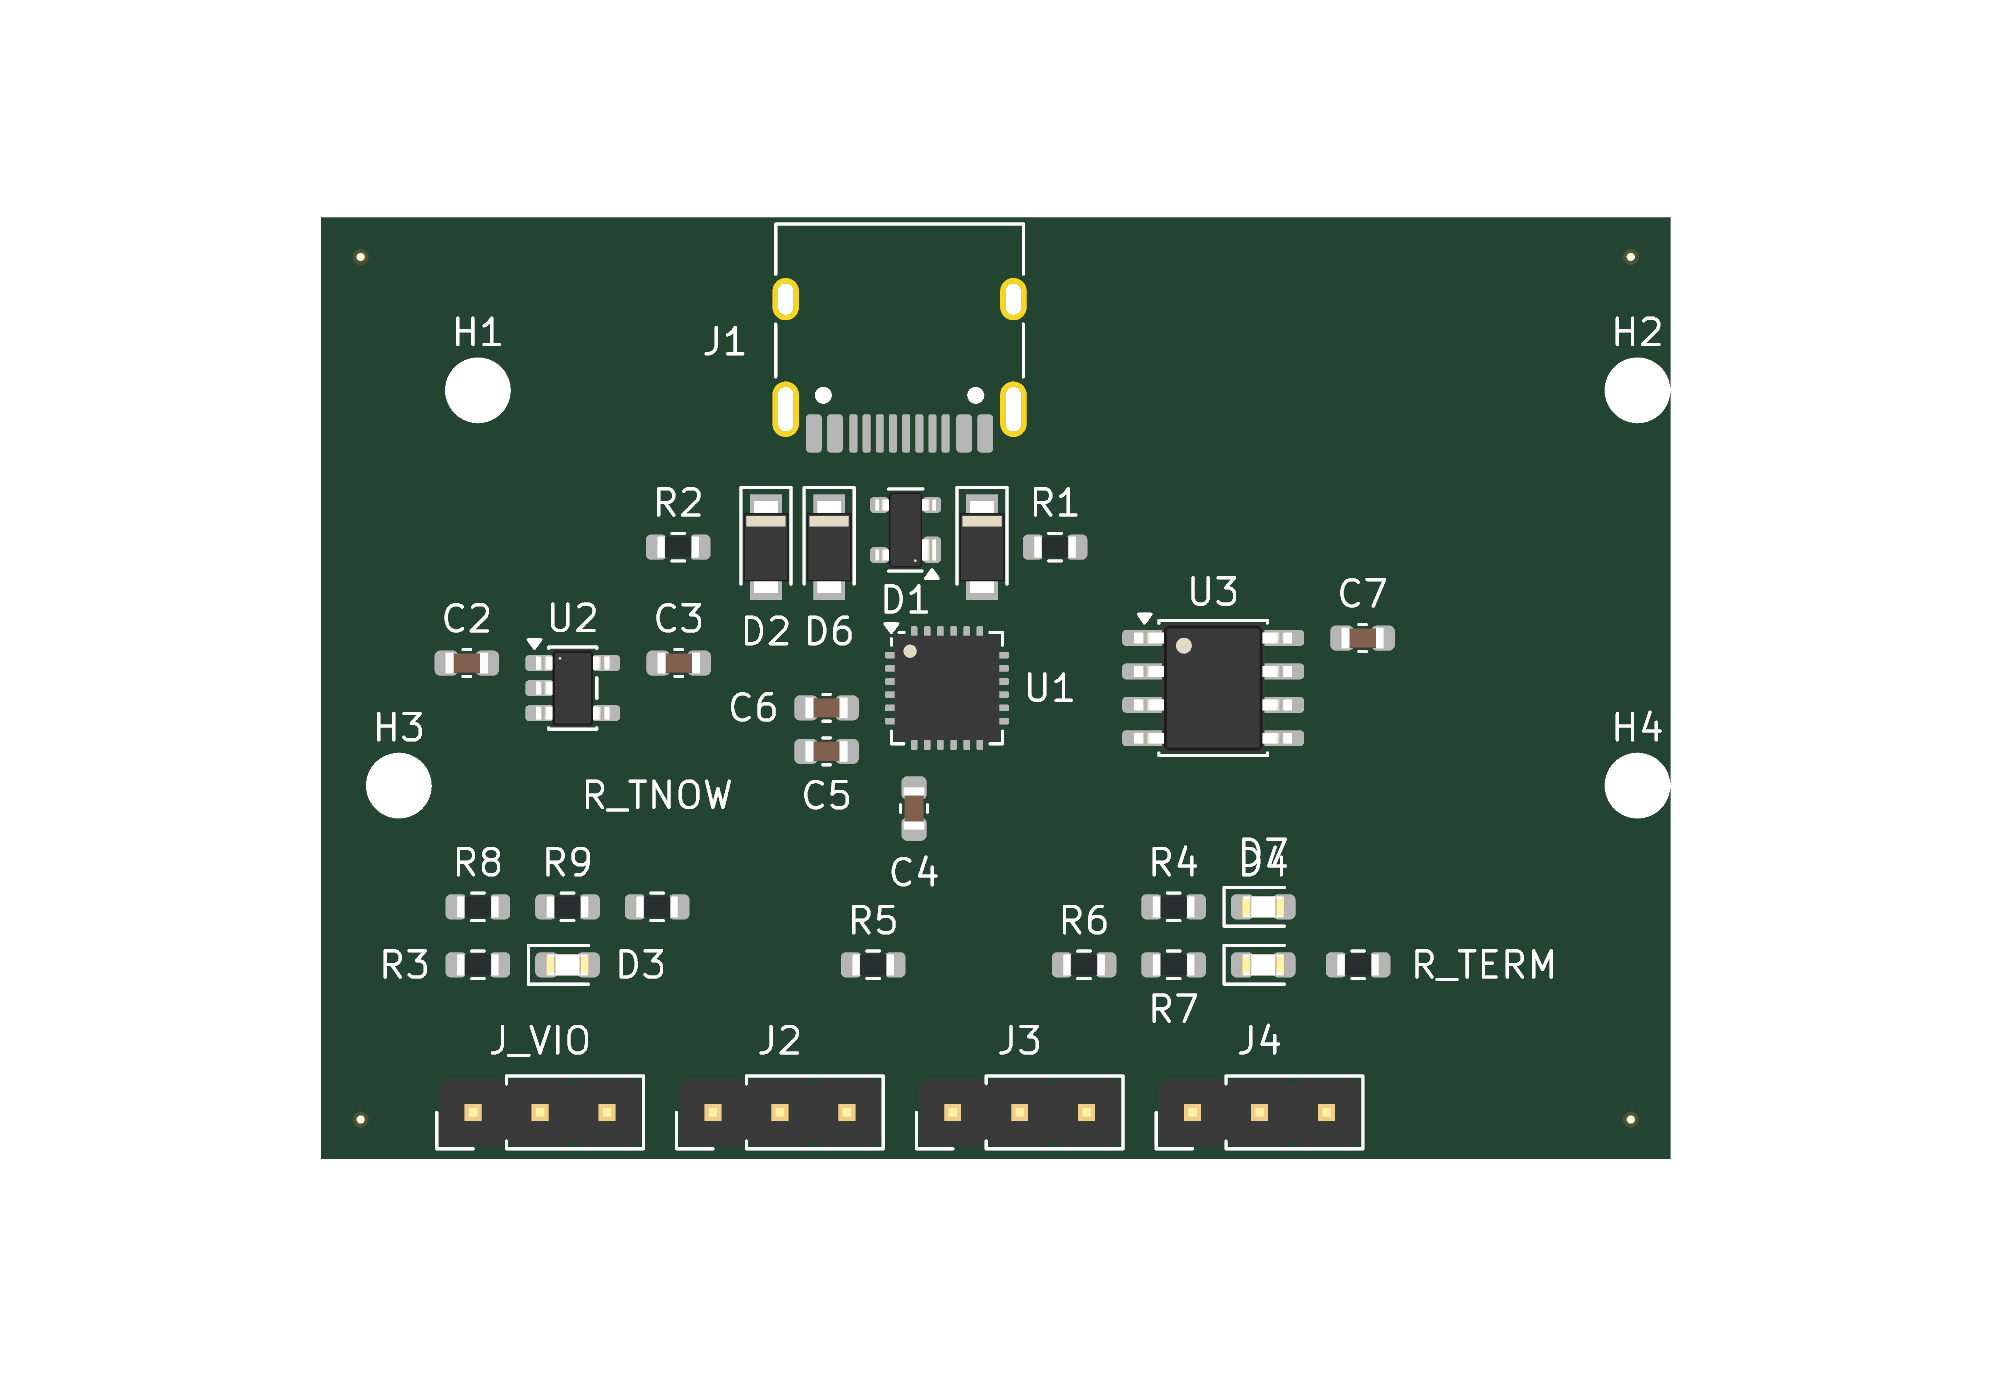
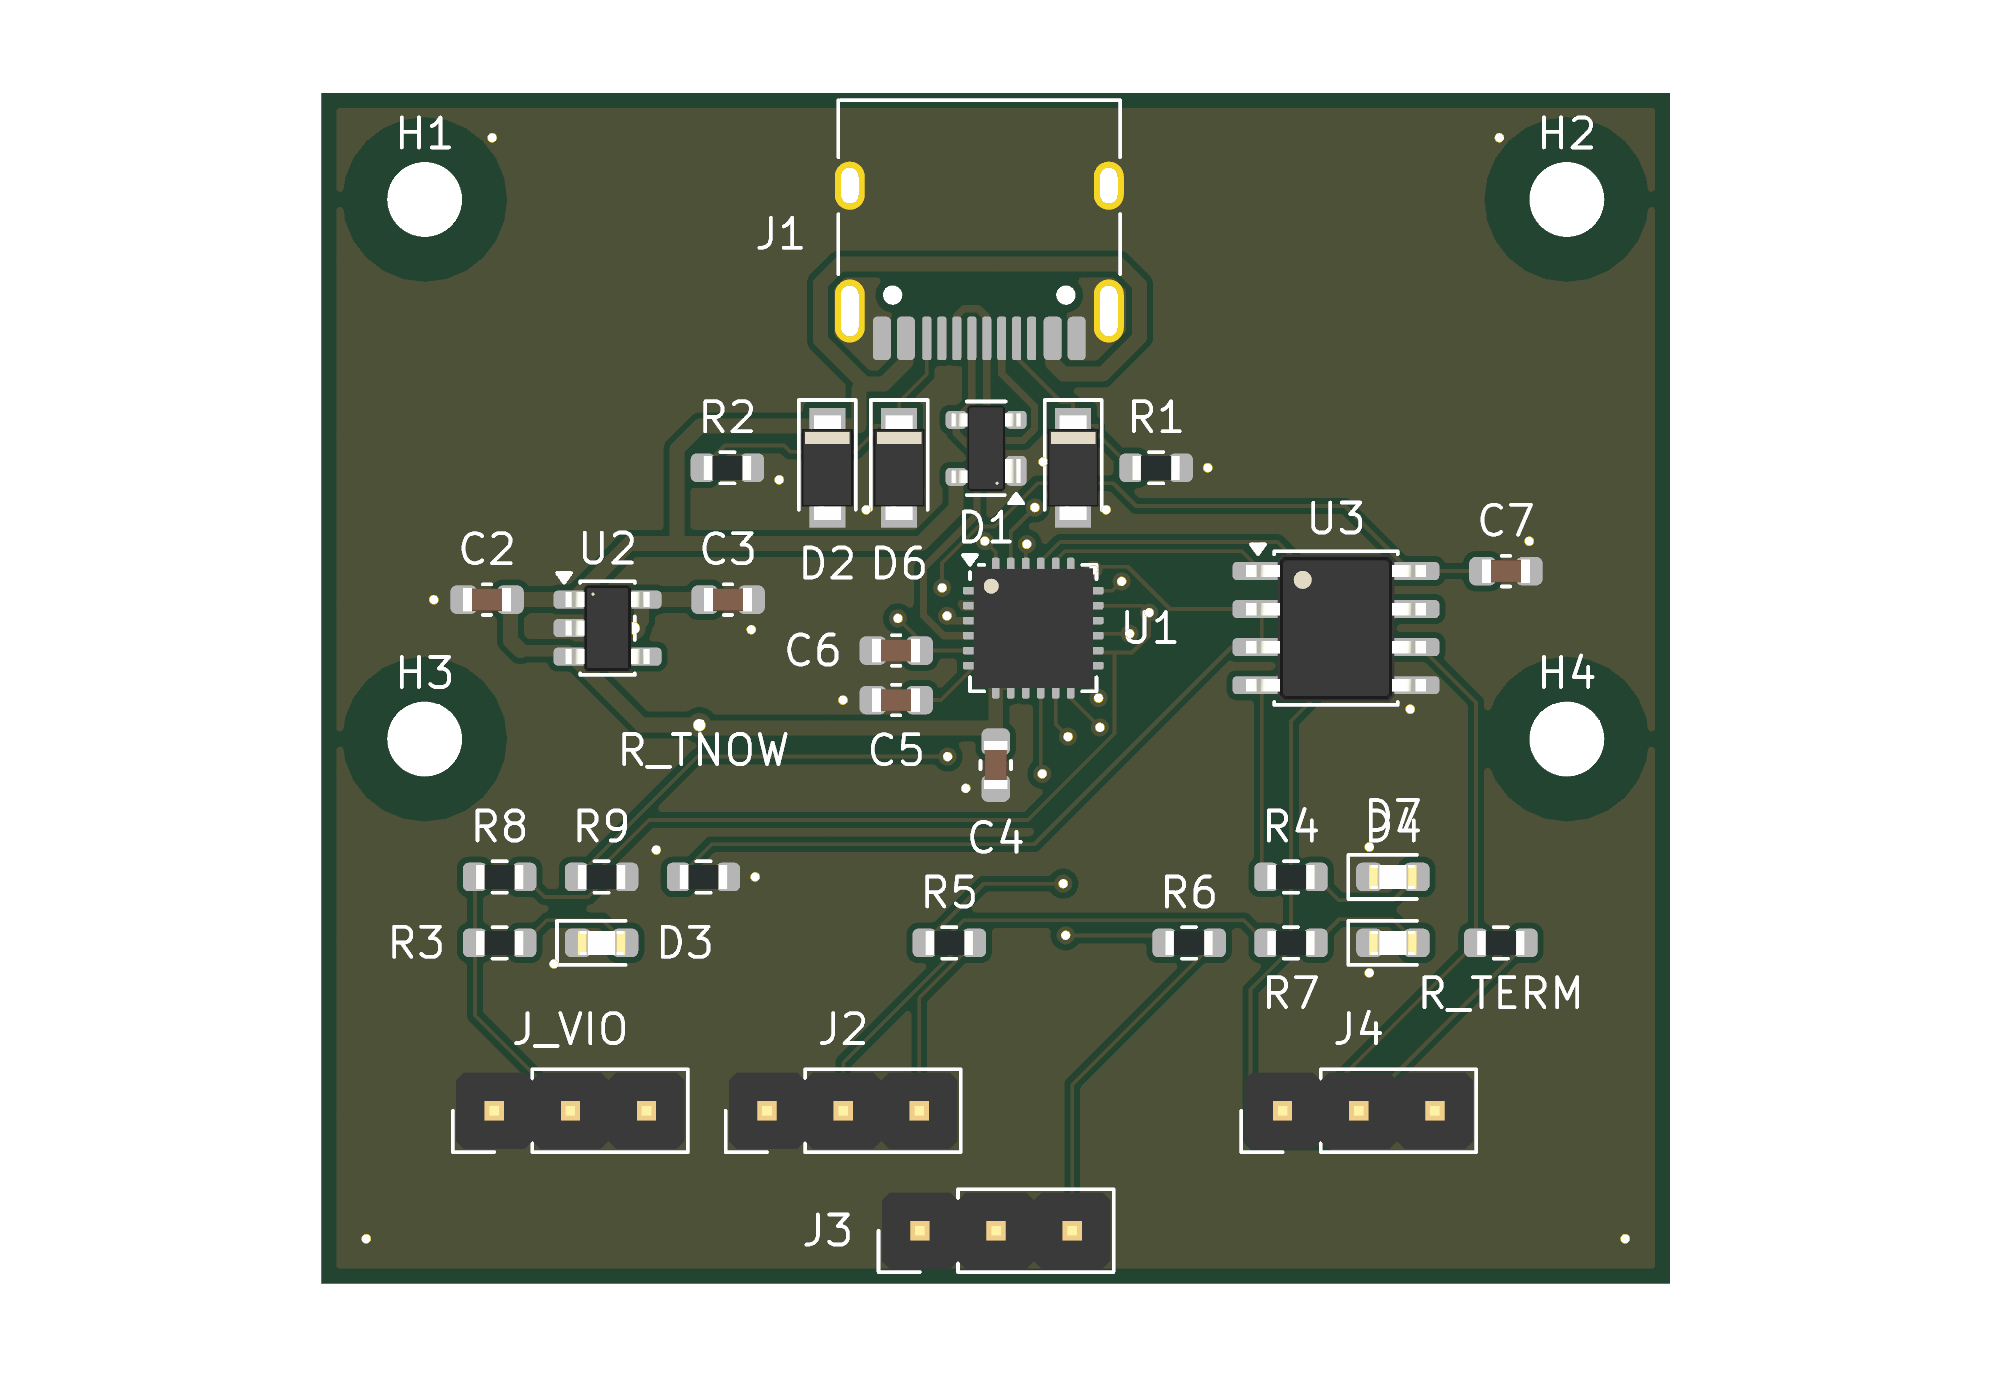
SYN-66 - Move the mounting holes to the edges, route the board and add copper images

diff --git a/qualification/class-b/usb-uart/README.md b/qualification/class-b/usb-uart/README.md
@@ -1,6 +1,6 @@
 # USB-C dual UART + RS-485 adapter (SYN-66)
 
-Status: design and compact placement. Routing is incomplete. Not fabricated, not tested on hardware.
+Status: design, placement and a FreeRouting route that passes Synth's release gate. Not fabricated, not tested on hardware.
 Do not call it proven or clean. The list of what is unchecked is at the bottom.
 
 ## What it is
@@ -64,9 +64,9 @@ The Nexperia and LP5907 electrical numbers were not re-read.
 
 ## Placement and routing (this commit)
 
-Status: compact placement done. Routing is not complete. Do not call it routed.
+Status: compact placement done and routed with FreeRouting. The route passes Synth's own checks; it is not reviewed or fabricated.
 
-- Outline: 51.2 x 35.7 mm with the four mounting holes (45.1 x 35.8 mm without them, 92.6 x 66.8 mm before the compact placement).
+- Outline: 45.0 x 35.7 mm as placed, with the four mounting holes 3.5 mm in from the left, right and top edges (92.6 x 66.8 mm before the compact placement). After routing it is 45.0 x 39.7 mm, see below.
   Old cause: the sidecar only fixed the caps and protection parts. The rest was auto-placed far apart, and the placer adds 4 mm around every part.
   Now every part has a position in `usb_uart.placement.layout.toml`. J1 sits flush on the top edge. J_VIO, J2, J3 and J4 sit flush on the bottom edge.
 - No courtyard overlaps. J1 courtyard to top edge: 0.01 mm (flush).
@@ -88,27 +88,26 @@ Status: compact placement done. Routing is not complete. Do not call it routed.
 - D2 is over 2 mm: four protection parts do not fit side by side under the 7 mm of J1 pads any closer.
 - R1, R2, the LEDs and R3 to R9 are placed by hand but not checked against any rule.
 
-Routing (FreeRouting 2.4.1, default settings, 40 passes; best of several placement tries):
-- Result: not complete. FreeRouting leaves nets open; Synth's own check says 9 nets are open (CC1, CC2, CTS1, RS485_B, RTS1, RXD1, TXD1, VBUS, VIO). Synth marks the board draft, not fabricable.
-- kicad-cli DRC on the routed attempt (`--severity-all --refill-zones`): 0 errors, 5 unconnected items, 49 warnings.
-  The 5 unconnected items are GND pour fragments on F.Cu with no stitching via. No signal net is listed. KiCad and Synth's check disagree about the 9 nets; this is not resolved.
-  The warnings are 32 footprint library links, 12 silk over copper, 5 silk overlap.
-- 263 track segments, 23 vias.
-- USB pair: width 0.242 mm. D+ is 17.03 mm (F.Cu only). D- is 18.43 mm (11.21 F.Cu, 7.23 B.Cu, 2 vias). Skew 1.40 mm. Closest gap 0.133 mm; 12.6 mm of D+ is within 0.5 mm of D-.
-  FreeRouting does not couple the pair, so the 90 ohm geometry holds only where the tracks happen to run side by side.
-- KiCadRoutingTools was also tried (`--best-of`): 17 open nets, worse.
-- Other widths FreeRouting used: CC and UART nets 0.127 mm, VBUS 0.5 mm. The CC net width is not a design choice.
-- The silkscreen reference text is large and sits away from its part. Labels overlap each other, and some sit outside the board.
+Routing (FreeRouting 2.4.1, `--router free-routing --krt-allow-via-in-pad`):
+- Result: routed. `release.json` has `release_ready` true and the gate reports no open net. `kicad-cli pcb drc --severity-all --refill-zones`: 0 errors, 0 unconnected, 42 warnings (36 footprint library links, 5 silk over copper, 1 silk overlap).
+- 247 track segments, 41 vias.
+- The exporter's repair step moved J3 down out of the header row (to y 37.4 mm), so the routed board is 45.0 x 39.7 mm. The placement sidecar alone gives 45.0 x 35.7 mm.
+- J4 is at x 34.66 mm in the sidecar. At 35.66 and 36.66 mm, and turned 180 degrees, FreeRouting left one to three nets open. Its result changes with small placement changes and is not bit-for-bit repeatable.
+- Via-in-pad at the U1 exposed pad (pin 25). The fab must fill and cap it. JLCPCB has not been asked.
+- Signal-integrity pass: 21 warnings, none blocking. 20 are layer changes with no ground return via within 0.64 mm, one is a parallel run of 5.9 mm at 0.177 mm.
+- The USB pair is not coupled and its length and skew were not measured for this route. FreeRouting does not couple the pair, so the 90 ohm geometry is unverified.
+- No part has been reviewed (`reviewer_state` is false for every part in `release.json`).
+- The silkscreen reference text is large and sits close to its part. D4 and D7 labels overlap.
 
 Commands (use an empty `XDG_DATA_HOME` so a user registry cannot shadow parts):
 ```
 export XDG_DATA_HOME=$(mktemp -d)
 scripts/setup-routing-engines.sh
 synth validate qualification/class-b/usb-uart/usb_uart.synth
-synth export-kicad qualification/class-b/usb-uart/usb_uart.synth --out /tmp/usb_uart --allow-incomplete
-kicad-cli pcb drc --severity-all --refill-zones /tmp/usb_uart/usb_uart.freerouting.kicad_pcb
+synth export-kicad qualification/class-b/usb-uart/usb_uart.synth --out /tmp/usb_uart --router free-routing --krt-allow-via-in-pad --allow-incomplete
+kicad-cli pcb drc --severity-all --refill-zones /tmp/usb_uart/usb_uart.kicad_pcb
 ```
-The routed attempt is `usb_uart.freerouting.kicad_pcb`; the unrouted placement is `usb_uart.synth.kicad_pcb`.
+A route that passes the gate is `usb_uart.kicad_pcb`; a failed one stays in `usb_uart.freerouting.kicad_pcb`. The unrouted placement is `usb_uart.synth.kicad_pcb`.
 Add `--best-of --kicad-routing-tools-repo <dir> --kicad-routing-tools-python <python>` to try the second engine.
 
 ## Known limits and gaps
@@ -120,7 +119,7 @@ Add `--best-of --kicad-routing-tools-repo <dir> --kicad-routing-tools-python <py
 - R_TERM (120 ohm across A/B) is always connected. The registry has no 2-pin header (`header_1x2`) for a jumper.
 - RS-485: no bias resistors (the THVD1450 has idle, open and short bus failsafe built in, per SLLSEY3E). No surge or TVS on A/B: only the on-chip +/-18 kV IEC contact ESD. TI shows an external circuit for 1 kV surge. No common-mode choke.
 - No silkscreen text support in Synth: header labels (GND/TXD1/RXD1 and so on) exist only in the schematic.
-- Routing is incomplete (see above), so the board is not fabricable.
+- The route passes Synth's own gate but nobody has reviewed it, so the board is not ready to fabricate.
 - 4-layer stackup and 90 ohm USB pair are declared but not verified.
 
 ## Not verified
